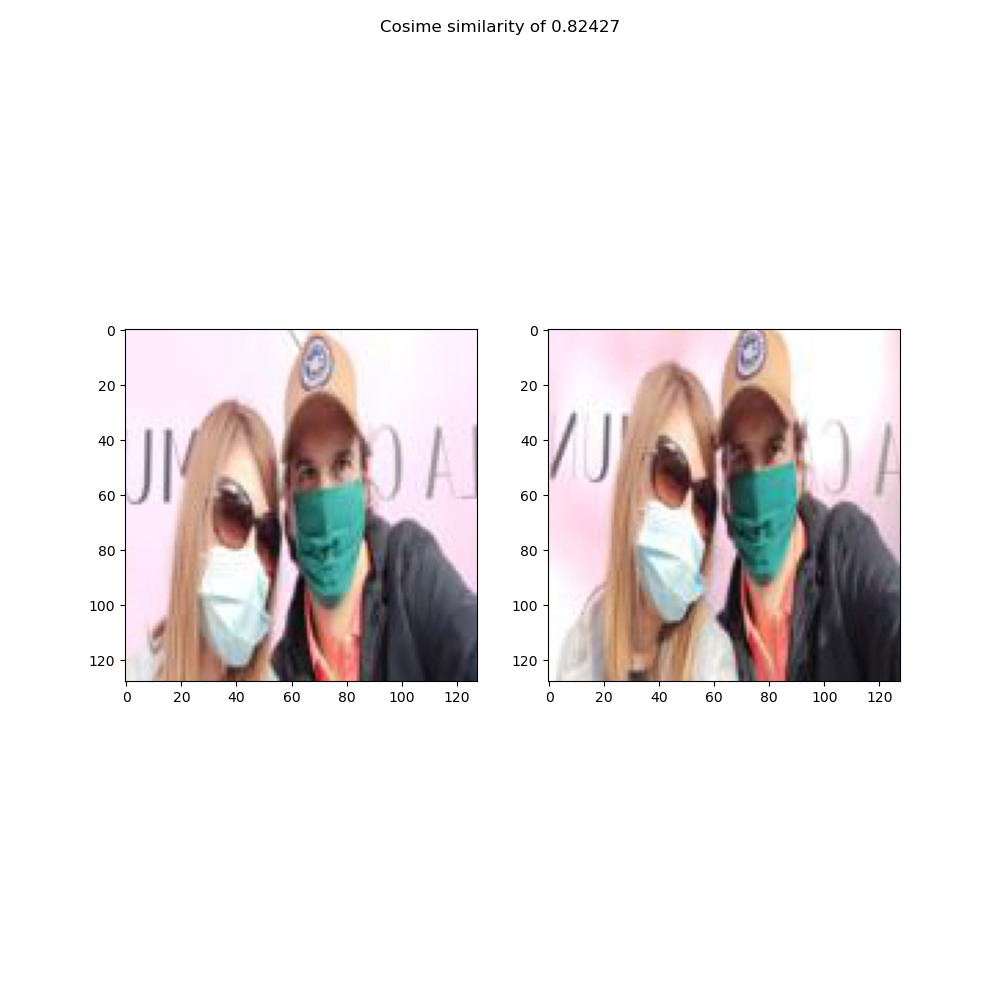
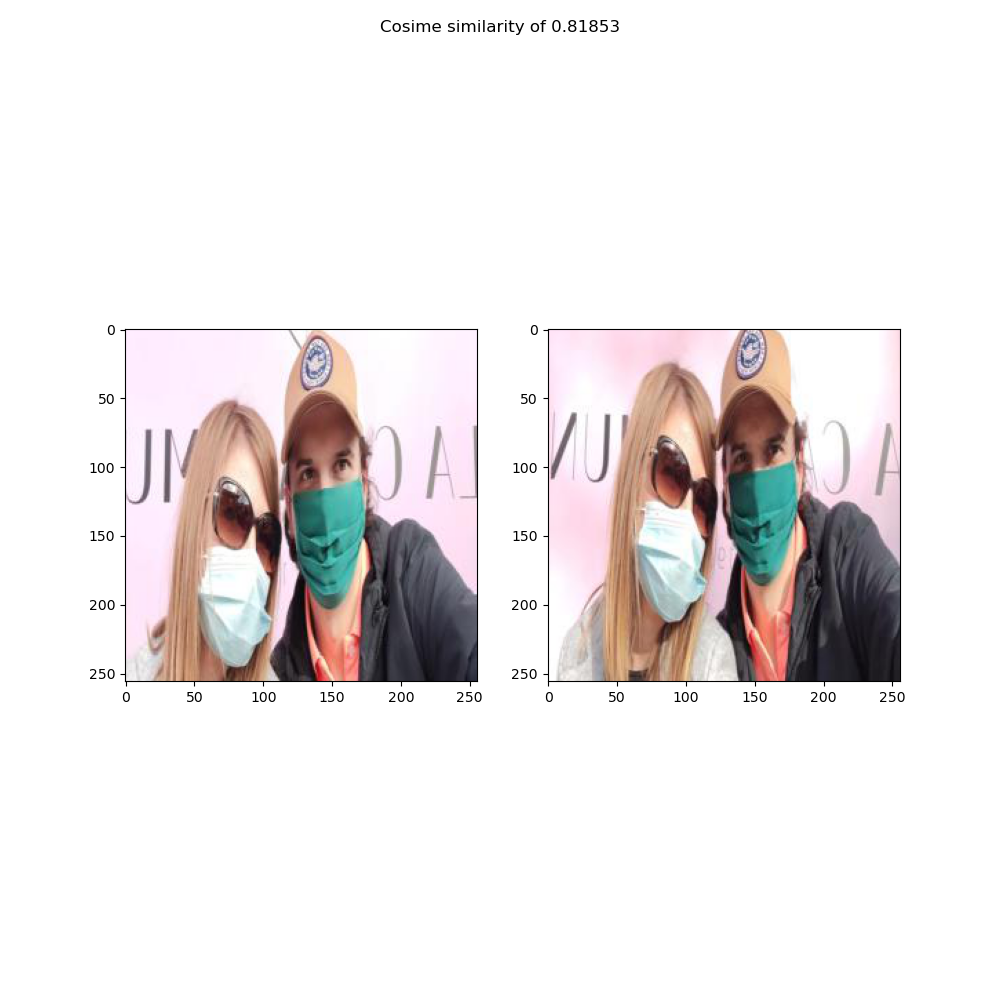
Small code change

diff --git a/main.py b/main.py
@@ -4,8 +4,8 @@ import sys
 import numpy as np
 import pandas as pd
 
-from sklearn.metrics.pairwise import cosine_similarity, cosine_distances
-from sklearn.preprocessing import StandardScaler, MinMaxScaler
+from sklearn.metrics.pairwise import cosine_similarity
+from sklearn.preprocessing import MinMaxScaler
 
 import matplotlib.pyplot as plt
 
@@ -24,13 +24,13 @@ class PhotoToArray(object):
         self.width = width
         self.verbose = verbose
 
-    def _get_full_path_photos(self):
+    def get_full_path_photos(self):
         '''
         Creates a list of full path for each photo in the original folder.
         '''
         return [os.path.join(self.path_input, file) for file in os.listdir(self.path_input)]
 
-    def _check_output_folder(self):
+    def check_output_folder(self):
         '''
         Checks if the output folder exists and creates it if needed.
         '''
@@ -41,9 +41,9 @@ class PhotoToArray(object):
         '''
         Iterates over all original photos and reshapes them into the specified height x width.
         '''
-        photos_path = self._get_full_path_photos()
+        photos_path = self.get_full_path_photos()
 
-        self._check_output_folder()
+        self.check_output_folder()
 
         for photo_path in photos_path:
             if ".DS_Store" not in photo_path:
@@ -116,8 +116,8 @@ if __name__ == "__main__":
     path_input = os.path.join(os.getcwd(), "photos")
     path_output = os.path.join(os.getcwd(), "photos_output")
 
-    height = 128
-    width = 128
+    height = 256
+    width = 256
 
     # instanciates the class and runs the resize and numeric conversion of photos
     photo_to_array = PhotoToArray(
@@ -133,8 +133,12 @@ if __name__ == "__main__":
     # computes the cosine similarity between photos
     scaler = MinMaxScaler()
     photo_df_ = scaler.fit_transform(photo_df)
-    photo_similarity = cosine_similarity(photo_df_)
     
+    # photo_df_ = photo_df.copy(deep = True)
+    # photo_df_ = photo_df_/255
+    
+    photo_similarity = cosine_similarity(photo_df_)
+
     photo_similarity_df = pd.DataFrame(photo_similarity, index = photo_df.index, columns = photo_df.index)
     print(photo_similarity_df.head())
 
